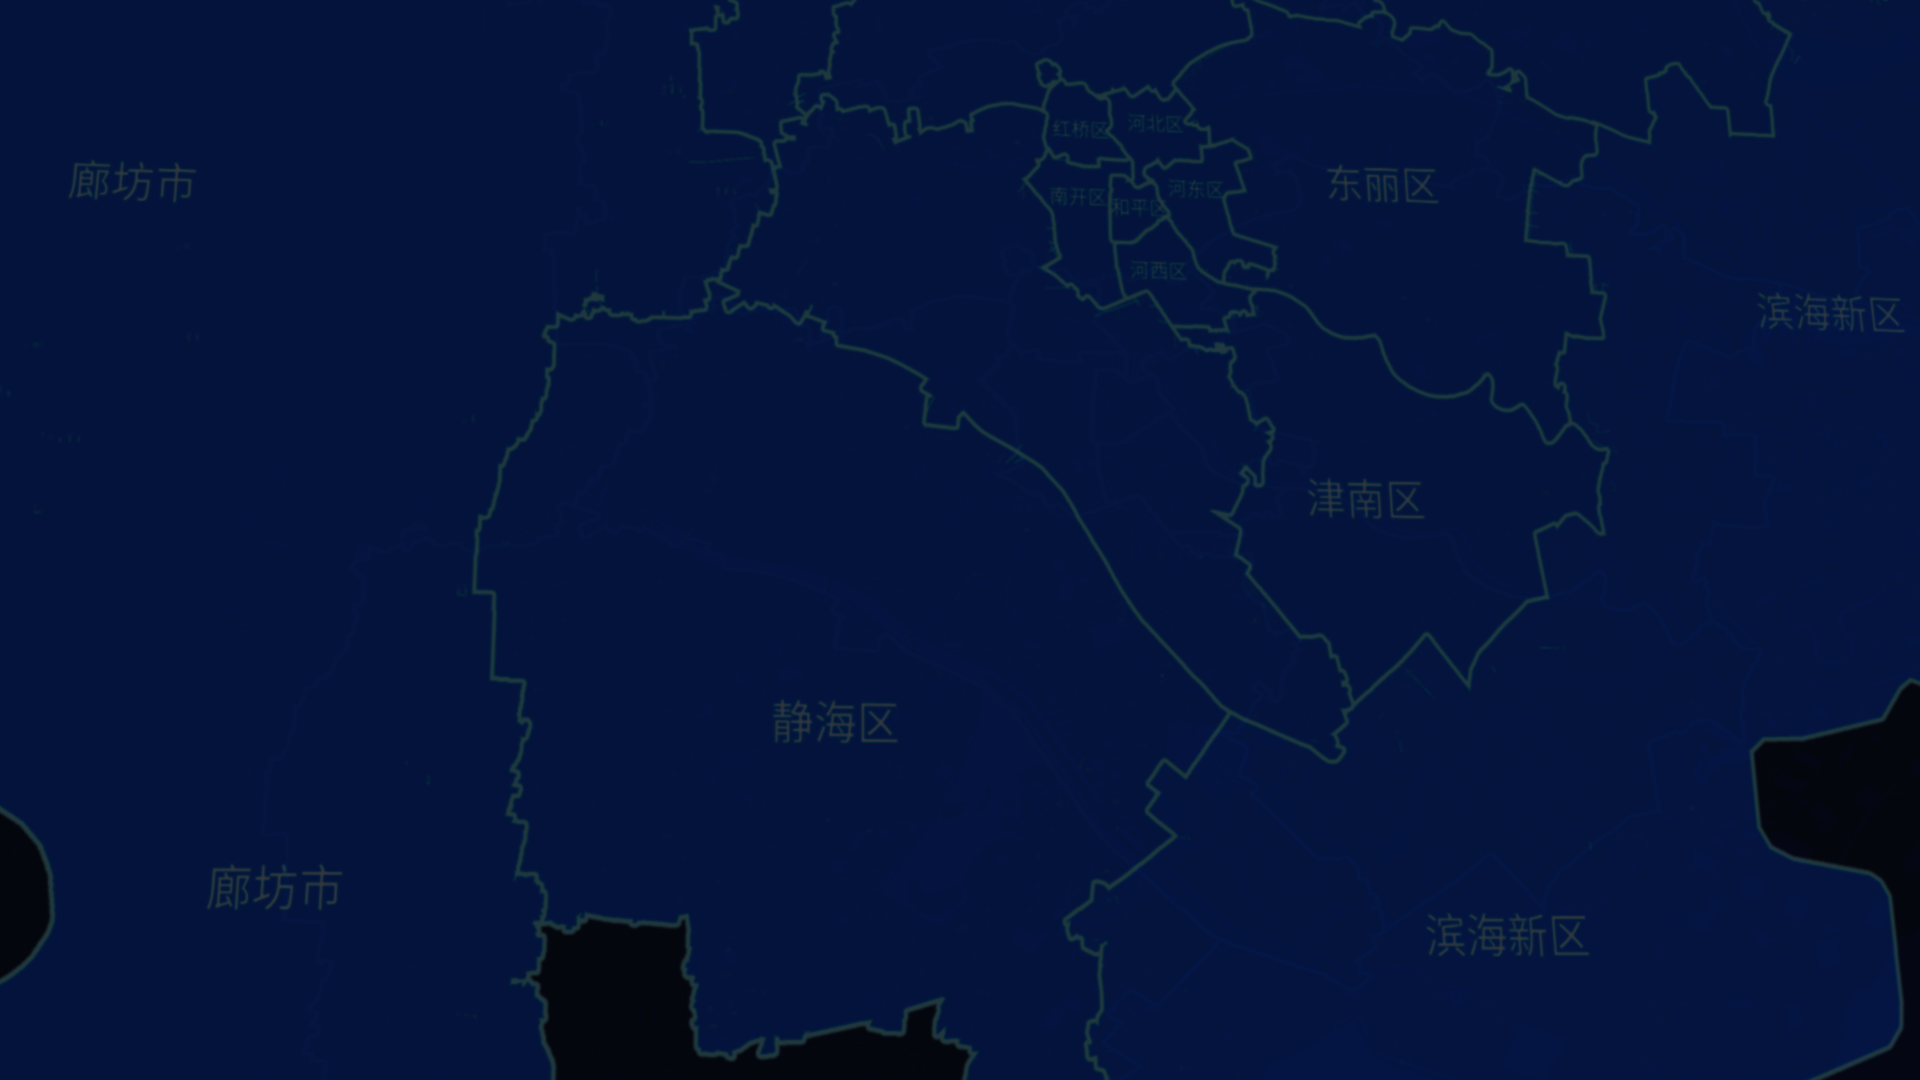
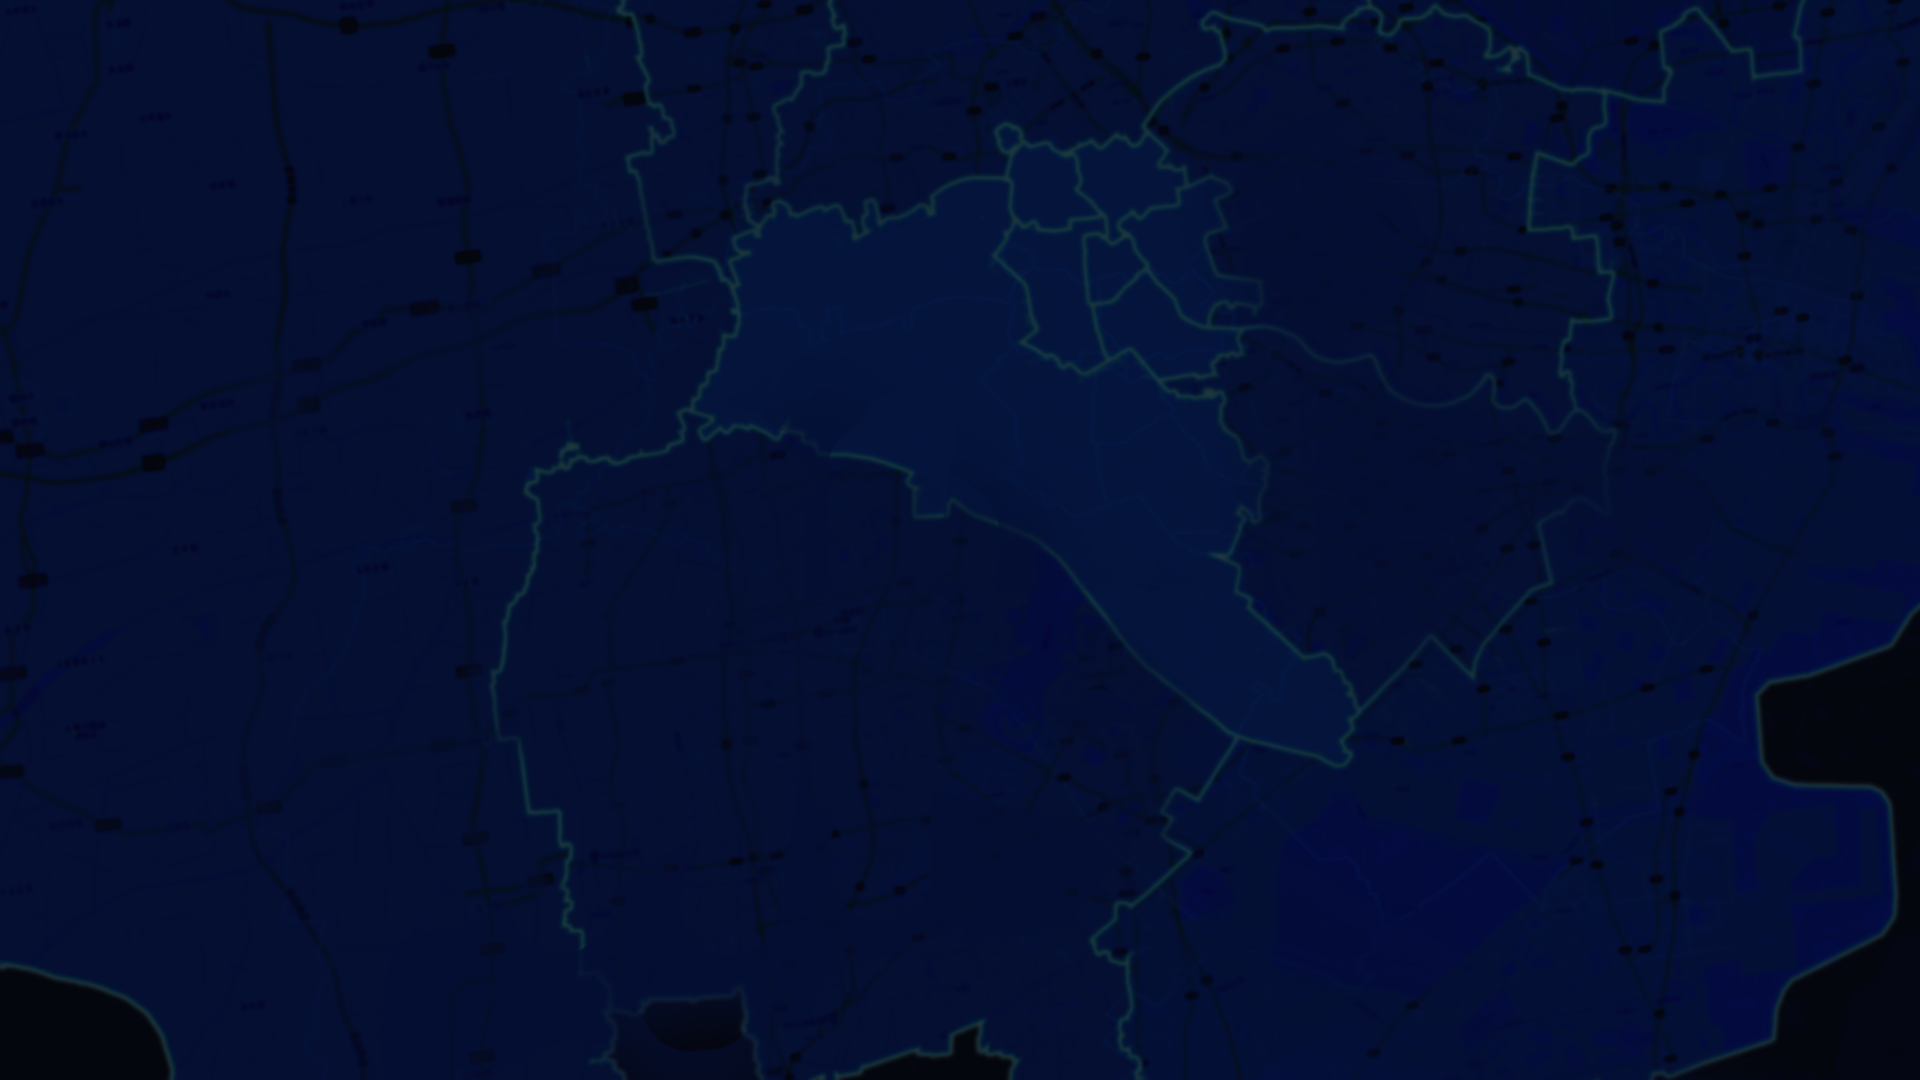
1、污染源链接改回土壤 2、主页面的地图地图去掉文字，加上路网，主页西青区地图调整下 3、河流加动态效果，去掉文字，地图点变小 4、右侧河流选中颜色改一下 5、水环境主页地图点小一点

diff --git a/src/views/page1/CenterTop.vue b/src/views/page1/CenterTop.vue
@@ -9,6 +9,13 @@
         </div> -->
         <div class="center-top-img">
             <div class="center-top-img-map"></div>
+            <span
+                class="map_point_water"
+                v-for="vo in waterPointList" 
+                :key="vo.id"
+                :style="{top: vo.top, left: vo.left}"
+                :id="`map_point_water_${vo.id}`"
+            ></span>
             <span 
                 class="map_icon" 
                 v-for="vo in list" 
@@ -89,6 +96,7 @@
     import {getAirQuality, getXiangzhenData} from '@/service/api.js';
     import mapMarkerStyle from '@/utils/mapMarkerStyle';
     import { mapState } from 'vuex';
+    import bus from  '@/bus/index';
 
     export default {
         data() {
@@ -105,54 +113,55 @@
                 positionList: [
                     {
                         pointId: "4e4860553999471883954ecde87d540c",    //辛老路
-                        top: "33%",
-                        left: "31%"
+                        top: "40%",
+                        left: "29%"
                     },{
                         pointId: "172515c7a57042d19213988d65d2fa00",    //王稳庄镇
-                        top: "79%",
-                        left: "83%"
+                        top: "82%",
+                        left: "80%"
                     },{
                         pointId: "38ec3358c4e24869b0a14cdb4a9f5b02",    //辛口镇
-                        top: "22%",
-                        left: "17%"
+                        top: "30.5%",
+                        left: "18.2%"
                     },{
                         pointId: "4df4622633de48129826765410abcb96",    //开发区
-                        top: "39%",
-                        left: "69%"
+                        top: "40%",
+                        left: "65%"
                     },{
                         pointId: "523a63eeadb2466d8ec147778c5f75fd",    //杨柳青镇
-                        top: "11%",
+                        top: "17%",
                         left: "29%"
                     },{
                         pointId: "5c10a9d149b2454abfcc4236edae8e45",    //大寺镇
-                        top: "39.5%",
-                        left: "73%"
+                        top: "40%",
+                        left: "70%"
                     },{
                         pointId: "67545bbf23f94a63af8aa2196e343c22",    //精武镇
-                        top: "34%",
-                        left: "50%"
+                        top: "39%",
+                        left: "46%"
                     },{
                         pointId: "adb3f2b4a8e54c9db7eed777a070e3f7",    //张家窝镇（参照点）
-                        top: "34%",
-                        left: "35.6%"
+                        top: "41%",
+                        left: "35.2%"
                     },{
                         pointId: "af0dd1c3a32a46a69a5d9259c3827d75",    //中北镇
-                        top: "12%",
-                        left: "46%"
+                        top: "13.2%",
+                        left: "41.7%"
                     },{
                         pointId: "b2eb2f142124436098787a688525c67b",    //西营门街
-                        top: "1.5%",
-                        left: "46%"
+                        top: "2.3%",
+                        left: "41.2%"
                     },{
                         pointId: "e48ae20a578d4b08b096fc7d04342eef",    //李七庄街
-                        top: "27%",
-                        left: "54%"
+                        top: "28%",
+                        left: "48%"
                     }
-                ]
+                ],
+                waterPointList: [],
             }
         },
         computed: {
-            
+            ...mapState('page1', ['riverTree'])
         },
         created () {
             this.airQualityData = Object.assign(this.airQualityData, this.$store.state.page1.shizhan.filter(function(v){
@@ -172,10 +181,19 @@
                 })[0].left;
             })
             this.currInfo = this.list[0];
+            // 处理河流pointer数据
+            this.waterPointList = this.riverTree.map(v => this.getWaterPointInfo(v));
         },
         mounted () {
             document.addEventListener('click', () => {
                 this.isShow = false;
+            });
+            bus.$on('stationChange', ({currStation}) => {
+                const domlist = document.querySelectorAll(`.map_point_water:not(#map_point_water_${currStation})`);
+                for(let i=0; i<domlist.length; i++){
+                    domlist[i].classList.remove('mapicon_zoom');
+                }
+                document.querySelector(`#map_point_water_${currStation}`).classList.add("mapicon_zoom");
             });
         },
         methods: {
@@ -215,7 +233,48 @@
             },
             onMouseOut() {
                 this.isOver = true;
-            }
+            },
+            // 处理水环境站点数据
+            getWaterPointInfo(v) {
+                let opt = {id: v.id, name:v.name, top:'', left:''};
+                switch (v.id) {
+                    case '1045':            //大柳滩泵站
+                        opt.top = '17%';
+                        opt.left = '24%';
+                        break;
+                    case '1044':            //当城桥
+                        opt.top = '31%';
+                        opt.left = '16.6%';
+                        break;
+                    case '1106':            //纪庄子桥
+                        opt.top = '29%';
+                        opt.left = '62.3%';
+                        break;
+                    case '1042':            //十一堡新桥
+                        opt.top = '50%';
+                        opt.left = '10%';
+                        break;
+                    case '19121106':        //天河桥
+                        opt.top = '1%';
+                        opt.left = '45%';
+                        break;
+                    case '1046':            //万达鸡场
+                        opt.top = '7%';
+                        opt.left = '23%';
+                        break;
+                    case '4178':            //大柳滩
+                        opt.top = '22%';
+                        opt.left = '25.5%';
+                        break;
+                    case '19121107':        //复康路桥
+                        opt.top = '33%';
+                        opt.left = '53.7%';
+                        break;
+                    default:
+                        break;
+                }
+                return opt
+            },
         },
     }
 </script>
@@ -235,8 +294,53 @@
             .center-top-img-map{
                 height: 100%;
                 width: 100%;
-                background: url('~@/assets/image/page1_map.png') no-repeat center;
+                background: url('~@/assets/image/page1_map.gif') no-repeat center;
                 background-size: 100% 100%;
+            }
+            .map_point_water{
+                position: absolute;
+                width: 5px;
+                height: 5px;
+                background-color: #1600ff;
+                cursor: pointer;
+                transform: scale(1);
+                border-radius: 50%;
+                box-shadow: 0px 0px 2px 4px #1600ff;
+                transition: transform 0.2s linear;
+            }
+            @keyframes mapiconZoom {
+                0%   {
+                    transform: scale(1);
+                    opacity: 0.5;
+                }
+                50% {
+                    transform: scale(2);
+                    opacity: 1;
+                }
+                100% {
+                    transform: scale(1);
+                    opacity: 0.5;
+                }
+            }
+            @-webkit-keyframes mapiconZoom {
+                0%   {
+                    -webkit-transform: scale(1);
+                    opacity: 0.5;
+                }
+                50% {
+                    -webkit-transform: scale(2);
+                    opacity: 1;
+                }
+                100% {
+                    -webkit-transform: scale(1);
+                    opacity: 0.5;
+                }
+            }
+            .mapicon_zoom{
+                background-color: #ff3d00;
+                box-shadow: 0px 0px 2px 4px #ff3d00;
+                animation: mapiconZoom 0.66s linear infinite forwards;
+                -webkit-animation: mapiconZoom 0.66s linear infinite forwards;
             }
             .map_icon{
                 position: absolute;
@@ -246,11 +350,12 @@
                 background-repeat: no-repeat;
                 background-position: -28px -28px;
                 cursor: pointer;
-                transform: scale(1);
+                transform: scale(0.8);
                 transition: transform 0.2s linear;
+                border-radius: 50%;
             }
             .map_icon:hover{
-                transform: scale(1.2);
+                transform: scale(1);
             }
         }
 

diff --git a/src/views/page1/centerbottom/CenterBottom.vue b/src/views/page1/centerbottom/CenterBottom.vue
@@ -28,20 +28,20 @@
                         left: "28.5%",
                         menuUrl: `${this.$store.state.pageUrl}views/index2.html?menuId=a57c1882826943c3b845b5b98eabe5c9&menuName=综合管理`
                     },
-                    // {
-                    //     name: "土壤监控",
-                    //     img: "page1_turang.png",
-                    //     bottom: "8%",
-                    //     left: "35.6%",
-                    //     menuUrl: `${this.$store.state.pageUrl}views/index2.html?menuId=585196faa64043939c13ca8f38215073&menuName=土壤与固废管理`
-                    // },
                     {
-                        name: "污染源监控",
+                        name: "土壤监控",
                         img: "page1_turang.png",
                         bottom: "8%",
                         left: "35.6%",
-                        menuUrl: `${this.$store.state.pageUrl}views/index2.html?menuId=26a6c508b37d465f910800d4e73f93d8&menuName=重点污染源管理`
+                        menuUrl: `${this.$store.state.pageUrl}views/index2.html?menuId=585196faa64043939c13ca8f38215073&menuName=土壤与固废管理`
                     },
+                    // {
+                    //     name: "污染源监控",
+                    //     img: "page1_turang.png",
+                    //     bottom: "8%",
+                    //     left: "35.6%",
+                    //     menuUrl: `${this.$store.state.pageUrl}views/index2.html?menuId=26a6c508b37d465f910800d4e73f93d8&menuName=重点污染源管理`
+                    // },
                     {
                         name: "大气监控",
                         img: "page1_daqi.png",

diff --git a/src/views/page3/BMap.vue b/src/views/page3/BMap.vue
@@ -97,14 +97,17 @@
 					const pointerList = document.querySelectorAll(".BMap_Marker[unselectable=on]>div");
 					for(let i=0; i<pointerList.length; i++){
 						pointerList[i].style.borderRadius = "50%";
+						pointerList[i].style.transform = "scale(0.75)";
+						pointerList[i].style.webkitTransform = "scale(0.75)";
 					}
 					pointerList[0].classList.add("mapicon_zoom");
 					bus.$on('stationChange', ({index}) => {
-						// console.log('chufale')
 						for(let i=0; i<pointerList.length; i++){
 							pointerList[i].classList.remove("mapicon_zoom");
+							pointerList[i].firstChild.style.marginLeft = "-28px";
 						}
 						pointerList[index].classList.add("mapicon_zoom");
+						pointerList[index].firstChild.style.marginLeft = "-84px";
 					});
 				}, 20);
 			},
@@ -162,20 +165,35 @@
 <style lang="scss">
 @keyframes mapiconZoom {
 	0%   {
-		transform: scale(1);
+		transform: scale(0.75);
 		opacity: 0.5;
 	}
 	50% {
-		transform: scale(2);
+		transform: scale(1.25);
 		opacity: 1;
 	}
 	100% {
-		transform: scale(1);
+		transform: scale(0.75);
+		opacity: 0.5;
+	}
+}
+@-webkit-keyframes mapiconZoom {
+	0%   {
+		-webkit-transform: scale(0.75);
+		opacity: 0.5;
+	}
+	50% {
+		-webkit-transform: scale(1.25);
+		opacity: 1;
+	}
+	100% {
+		-webkit-transform: scale(0.75);
 		opacity: 0.5;
 	}
 }
 .mapicon_zoom{
 	animation: mapiconZoom 0.66s linear infinite forwards;
+	-webkit-animation: mapiconZoom 0.66s linear infinite forwards;
 }
 
 #bmap{

diff --git a/src/views/page1/mainright/MainRight.vue b/src/views/page1/mainright/MainRight.vue
@@ -73,6 +73,7 @@
     import { getRiverGridData } from "@/service/api.js";
     import moment from 'moment';
     import { Loading } from 'element-ui';
+    import bus from  '@/bus/index';
 
     export default {
         components: {
@@ -161,6 +162,7 @@
             });
             this.handleData1();
             this.handleData2();
+            bus.$emit('stationChange', {currStation: this.currStation_1} );
         },
         beforeDestroy () {
             //清除定时器
@@ -168,9 +170,9 @@
             clearInterval(this.timer_3);
         },
         watch: {
-            // currStation_1(now, old) {
+            currStation_1(now, old) {
                 
-            // },
+            },
             // currtimetype_2(now, old) {
             //     this.handleData2();
             // },
@@ -203,6 +205,7 @@
                 }
                 this.handleData1();
                 this.handleData2();
+                bus.$emit('stationChange', {currStation: this.currStation_1} )
             },
             handleData1 () {
                 const riverGridDataR = this.riverGridDataAllR[this.currStation_1];
